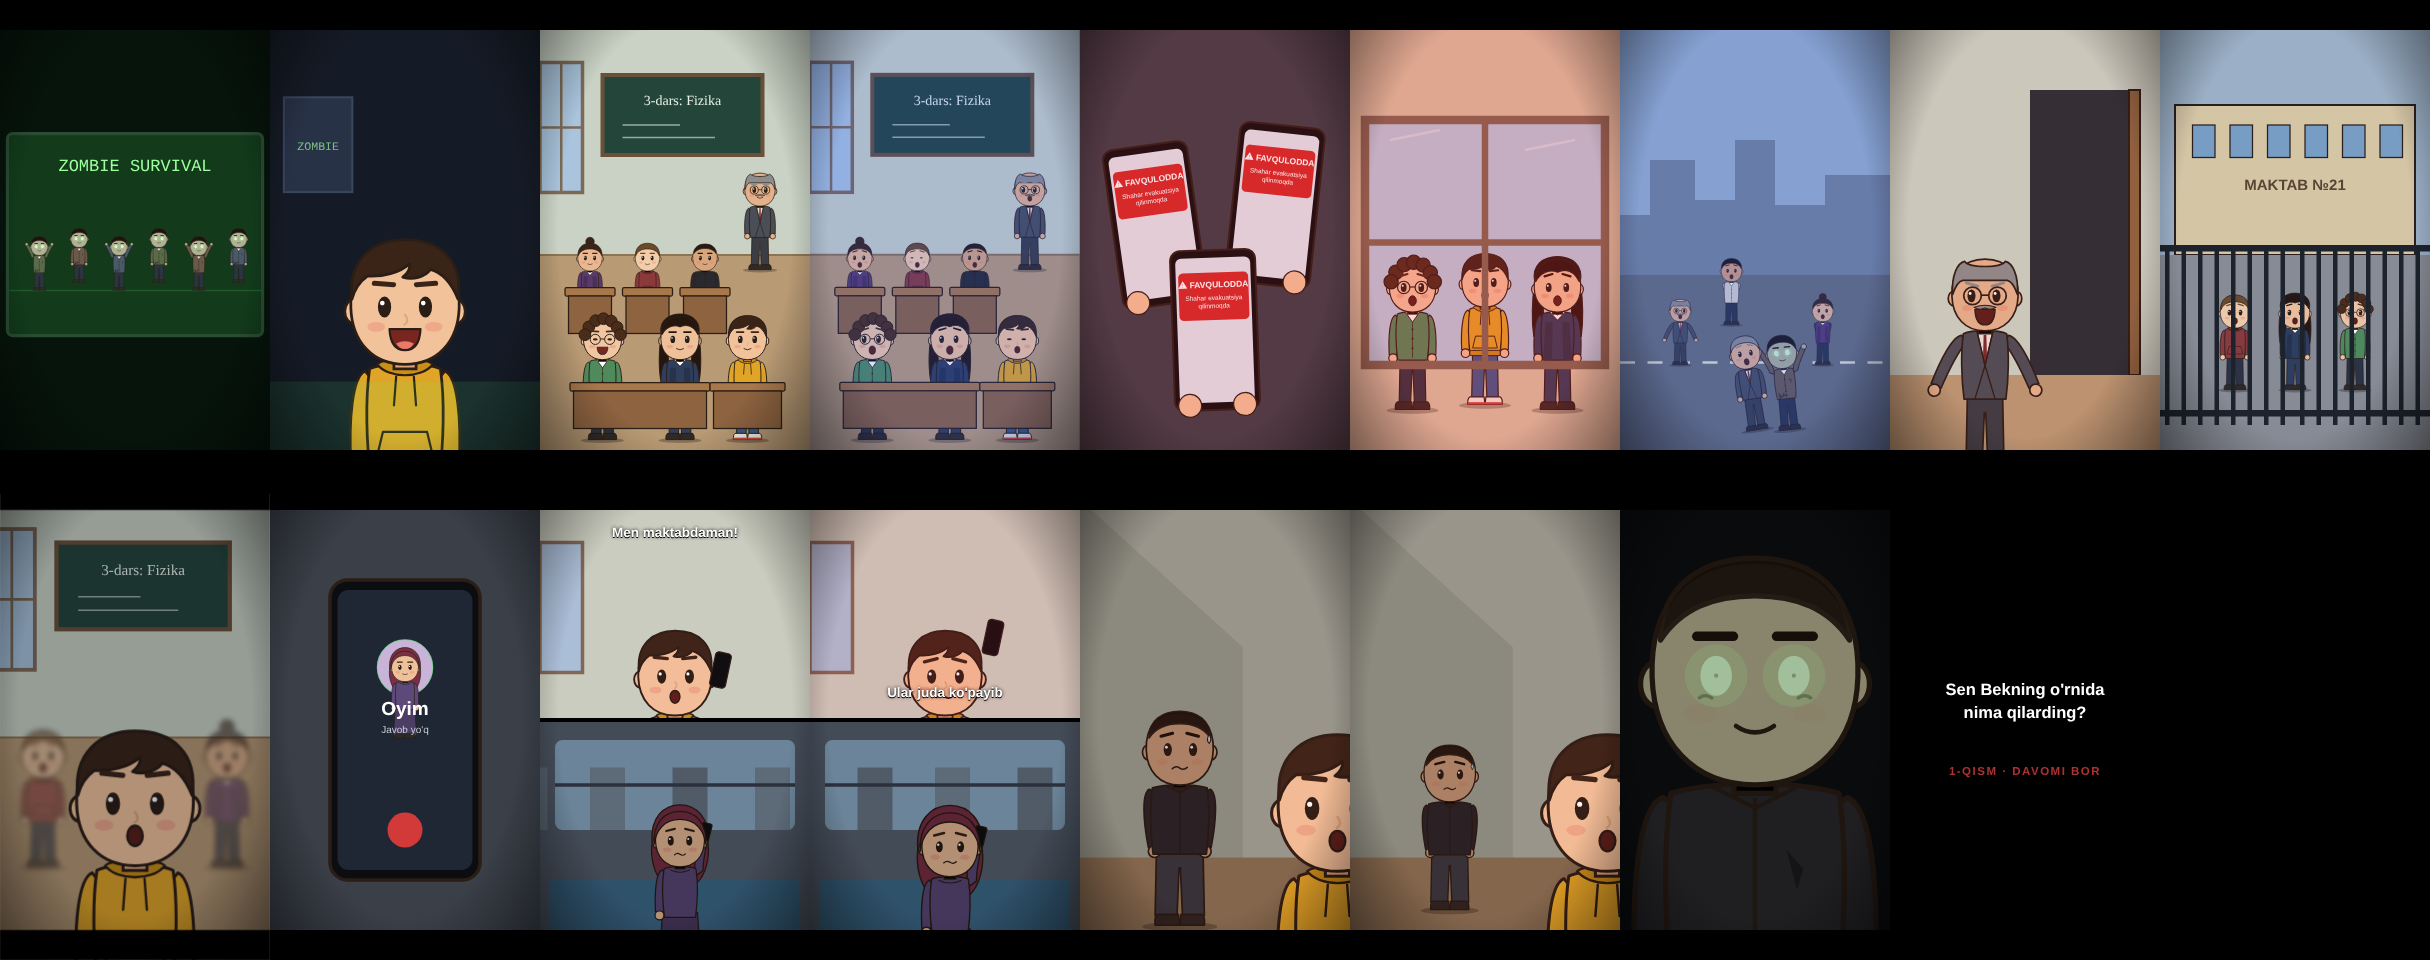
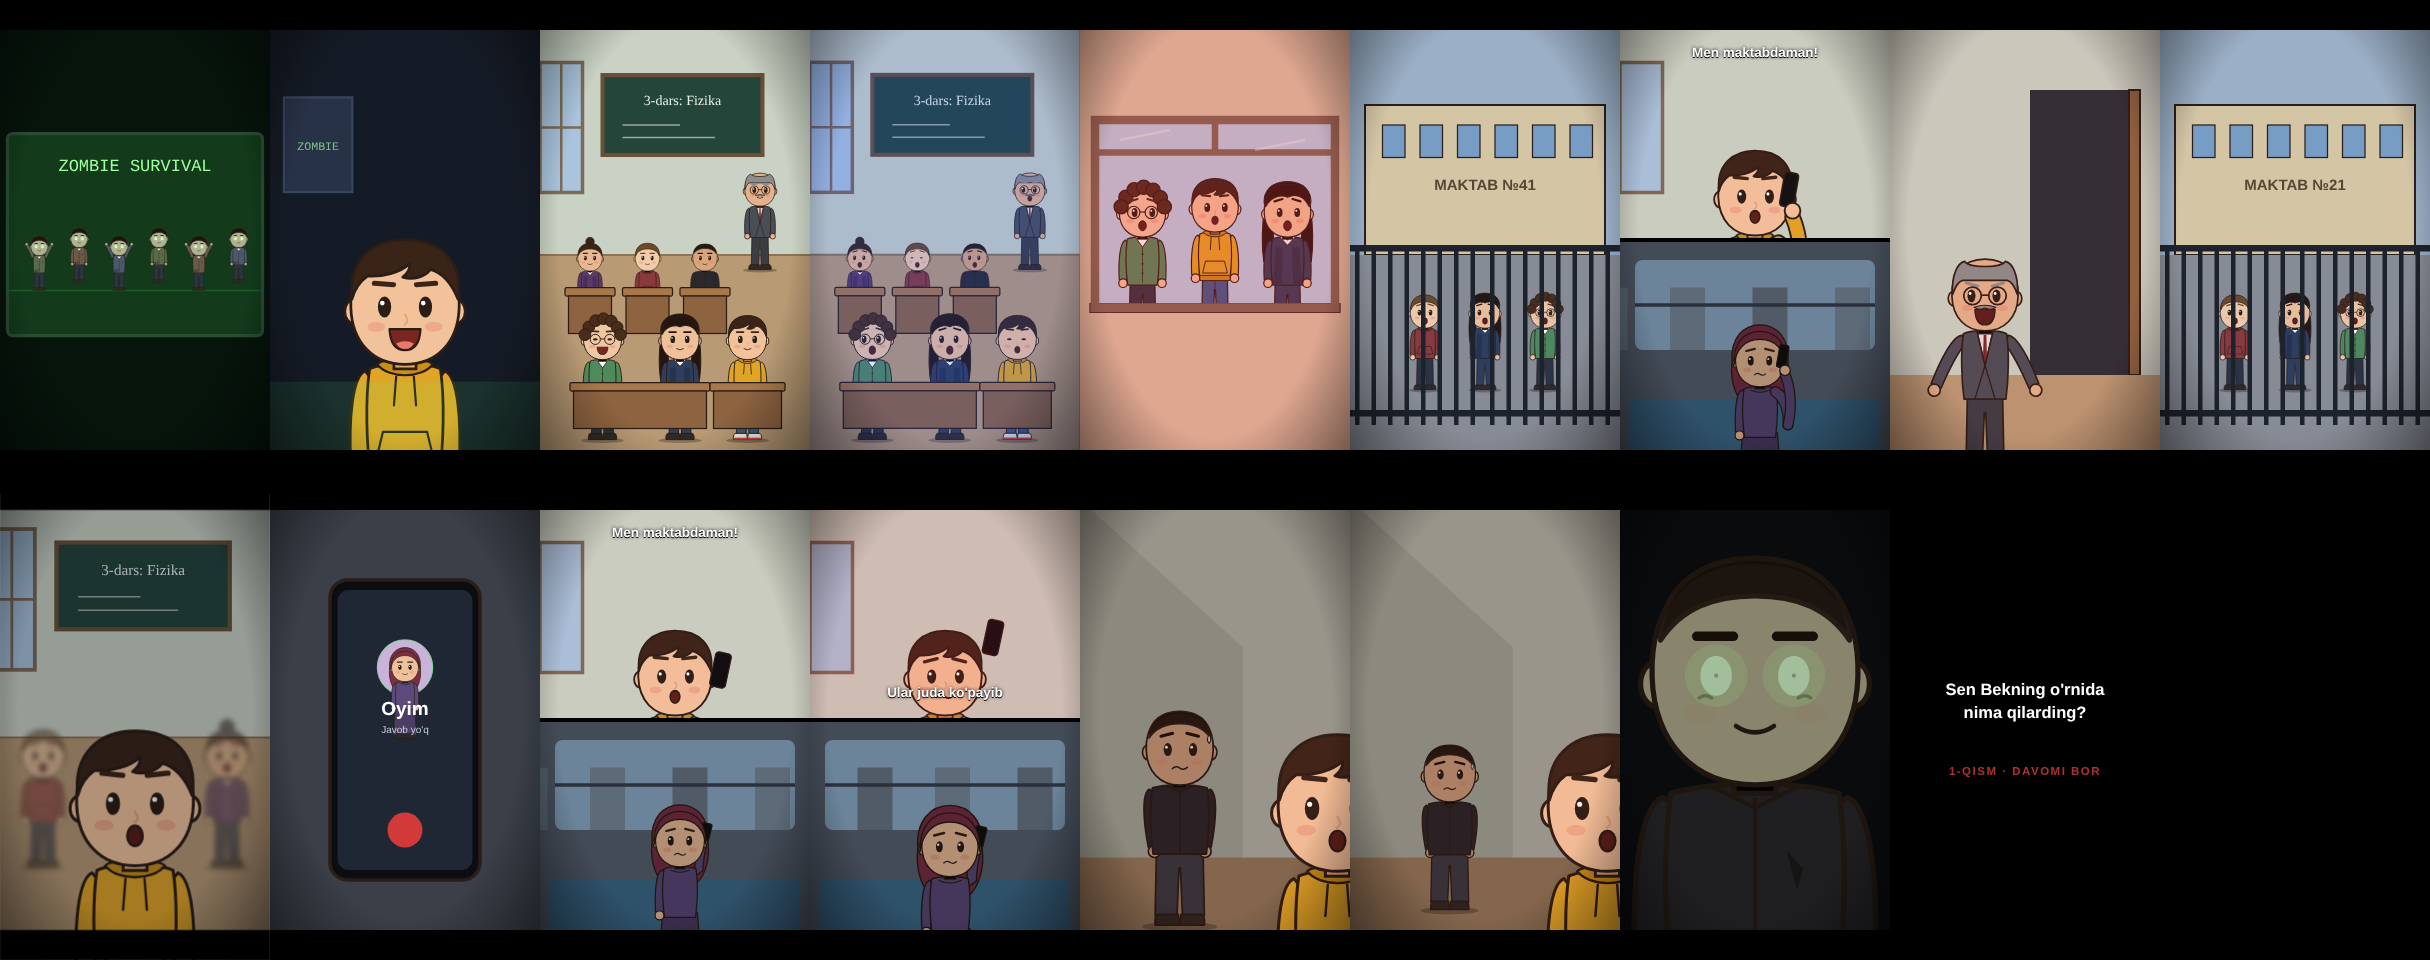
Zombie part 1: school 41, phone held to the ear, kids behind the window sill
Claude-Session: https://claude.ai/code/session_01TTDtXFX2VgNijaV9KjVb5K

Changed region(s): [[0.4321, 0.0312, 0.8025, 0.4688]]

diff --git a/video/src/zombi/ZQ1.tsx b/video/src/zombi/ZQ1.tsx
@@ -1,7 +1,7 @@
 import React from 'react';
 import {AbsoluteFill, useCurrentFrame} from 'remotion';
 import {BekAt, blinkAt, FPS, H, lerp, W} from '../tasavvur/common';
-import {CAST, PersonAt} from './Person';
+import {CAST, PersonAt, PhoneArm} from './Person';
 import words from './zq1_words.json';
 
 // Zombie series part 1 "Orzu ushaldi" (v2: every character drawn in Bek's style, lighter grade, dialogue-only subtitles).
@@ -142,11 +142,13 @@ const SWindow: S = ({t}) => {
         <rect width={W} height={H} fill="#d8c8a8" />
         <rect x={60} y={480} width={960} height={980} fill="#a9c4dc" />
         <rect x={60} y={480} width={960} height={980} fill="#e9f3fb" opacity={0.25} />
-        <PersonAt x={250} y={1640} s={0.95} {...CAST.doniyor} mood="scared" blink={blinkAt(t, 3)} />
-        <BekAt x={540} y={1620} s={0.95} mood="surprised" blink={blinkAt(t, 1)} />
-        <PersonAt x={830} y={1640} s={0.95} {...CAST.malika} mood="scared" blink={blinkAt(t, 4)} />
-        <path d="M60 970 H1020 M540 480 V1460" stroke="#7d6a55" strokeWidth={26} />
-        <rect x={60} y={480} width={960} height={980} fill="none" stroke="#7d6a55" strokeWidth={34} />
+        <PersonAt x={250} y={1340} s={0.95} {...CAST.doniyor} mood="scared" blink={blinkAt(t, 3)} lookX={0.8} />
+        <BekAt x={540} y={1320} s={0.95} mood="surprised" blink={blinkAt(t, 1)} lookX={0.9} />
+        <PersonAt x={830} y={1340} s={0.95} {...CAST.malika} mood="scared" blink={blinkAt(t, 4)} lookX={0.8} />
+        <rect x={0} y={1230} width={1080} height={700} fill="#d8c8a8" />
+        <rect x={40} y={1215} width={1000} height={34} fill="#b8a888" stroke="#2b1e16" strokeWidth={5} />
+        <path d="M60 610 H1020 M540 480 V610" stroke="#7d6a55" strokeWidth={26} />
+        <rect x={60} y={480} width={960} height={750} fill="none" stroke="#7d6a55" strokeWidth={34} />
         <path d="M160 560 L360 520 M700 600 L900 560" stroke="#fff" strokeWidth={10} opacity={0.35} />
         <Siren t={t} />
       </g>
@@ -193,7 +195,7 @@ const SGate: S = ({t}) => {
       <rect width={W} height={H} fill="#9fb3c6" />
       <rect x={60} y={420} width={960} height={600} fill="#d9c9a3" stroke="#2b1e16" strokeWidth={8} />
       {[0, 1, 2, 3, 4, 5].map((i) => <rect key={i} x={130 + i * 150} y={500} width={90} height={130} fill="#7aa0c4" stroke="#2b1e16" strokeWidth={5} />)}
-      <text x={540} y={760} fontSize={60} fill="#5a4630" textAnchor="middle" fontFamily="Liberation Sans" fontWeight={700}>MAKTAB №21</text>
+      <text x={540} y={760} fontSize={60} fill="#5a4630" textAnchor="middle" fontFamily="Liberation Sans" fontWeight={700}>MAKTAB №41</text>
       <rect y={1020} width={W} height={900} fill="#8a8d92" />
       {[[300, CAST.jasur], [540, CAST.malika], [780, CAST.doniyor]].map(([x, cc], i) => <PersonAt key={i} x={x as number} y={1560} s={0.6} {...(cc as object)} mood="scared" blink={blinkAt(t, i)} />)}
       {[-1, 1].map((d) => (
@@ -255,7 +257,7 @@ const SSplit: S = ({t}) => {
         <rect width={W} height={960} fill="#c9d2c4" />
         <rect x={0} y={250} width={170} height={520} fill="#a9c4dc" stroke="#7d6a55" strokeWidth={14} />
         <BekAt x={540} y={1560} s={1.5} mood={t > 53 ? 'worried' : 'surprised'} blink={blinkAt(t)} lookX={0.3} />
-        <rect x={690} y={690} width={64} height={140} rx={14} fill="#0b0d10" stroke="#2b1e16" strokeWidth={5} transform="rotate(12 722 760)" />
+        <g transform="translate(540 1560) scale(1.5) translate(-200 -730)"><PhoneArm color="#e0a526" skin="#f2c39b" /></g>
         <rect width={W} height={960} fill="#000" opacity={sp === 'B' ? 0 : 0.25} />
         <rect width={W} height={960} fill="#ff2030" opacity={0.12 * red(t)} />
       </g>

diff --git a/video/src/zombi/Person.tsx b/video/src/zombi/Person.tsx
@@ -105,11 +105,10 @@ const Body: React.FC<{top: Top; topColor: string; pants: string; skin: string; s
         <path d={`M${128 - w} 330 C${104 - w} 340 ${98 - w} 420 ${102 - w} 498 L${134 - w} 498 C${134 - w} 440 138 380 146 352 Z`} fill={topColor} stroke={INK} strokeWidth={SW} strokeLinejoin="round" />
         <circle cx={118 - w} cy={512} r={18} fill={skin} stroke={INK} strokeWidth={SW} />
       </g>
-      <g transform={`rotate(${armR} ${272 + w} 340)`}>
+      {!phone && <g transform={`rotate(${armR} ${272 + w} 340)`}>
         <path d={`M${272 + w} 330 C${296 + w} 340 ${302 + w} 420 ${298 + w} 498 L${266 + w} 498 C${266 + w} 440 262 380 254 352 Z`} fill={topColor} stroke={INK} strokeWidth={SW} strokeLinejoin="round" />
         <circle cx={282 + w} cy={512} r={18} fill={skin} stroke={INK} strokeWidth={SW} />
-        {phone && <rect x={262 + w} y={500} width={40} height={74} rx={8} fill="#111" stroke={INK} strokeWidth={4} transform={`rotate(180 ${282 + w} 520)`} />}
-      </g>
+      </g>}
       <path d={`M${136 - w} 326 C160 314 240 314 ${264 + w} 326 C${272 + w} 380 ${270 + w} 460 ${262 + w} 520 L${138 - w} 520 C${130 - w} 460 ${128 - w} 380 ${136 - w} 326 Z`} fill={topColor} stroke={INK} strokeWidth={SW} strokeLinejoin="round" />
       {top === 'hoodie' && <g><path d="M150 318 C170 344 230 344 250 318 C240 306 160 306 150 318 Z" fill={dark} stroke={INK} strokeWidth={4} /><path d="M160 440 L240 440 L252 490 L148 490 Z" fill="none" stroke={INK} strokeWidth={4} /></g>}
       {top === 'shirt' && <g><path d="M170 318 L200 360 L230 318" fill="#fff" stroke={INK} strokeWidth={4} /><path d="M200 360 V510" stroke={INK} strokeWidth={3} />{[390, 430, 470].map((y) => <circle key={y} cx={200} cy={y} r={4} fill={INK} />)}</g>}
@@ -121,6 +120,18 @@ const Body: React.FC<{top: Top; topColor: string; pants: string; skin: string; s
     </g>
   );
 };
+
+// bent right arm holding a phone to the right ear (same 400x800 space); draw it after the head
+export const PhoneArm: React.FC<{color: string; skin: string}> = ({color, skin}) => (
+  <g>
+    <path d="M262 338 C300 360 318 420 312 470" fill="none" stroke={INK} strokeWidth={46} strokeLinecap="round" />
+    <path d="M262 338 C300 360 318 420 312 470" fill="none" stroke={color} strokeWidth={36} strokeLinecap="round" />
+    <path d="M312 470 C330 400 322 320 300 268" fill="none" stroke={INK} strokeWidth={44} strokeLinecap="round" />
+    <path d="M312 470 C330 400 322 320 300 268" fill="none" stroke={color} strokeWidth={34} strokeLinecap="round" />
+    <rect x={272} y={150} width={38} height={92} rx={9} fill="#111" stroke={INK} strokeWidth={4} transform="rotate(10 291 196)" />
+    <circle cx={300} cy={252} r={21} fill={skin} stroke={INK} strokeWidth={5} />
+  </g>
+);
 
 export const PersonG: React.FC<PersonProps & {shadow?: boolean}> = (p) => {
   const z = p.zombie ?? 0;
@@ -141,6 +152,7 @@ export const PersonG: React.FC<PersonProps & {shadow?: boolean}> = (p) => {
       <Face mood={p.mood ?? 'neutral'} blink={p.blink ?? 0} lookX={p.lookX ?? 0} hairColor={hair === 'scarf' ? '#3a2418' : hc} skinSh={skinSh} zombie={z} eyeGlow={p.eyeGlow ?? 0} />
       {p.glasses && <g fill="none" stroke={INK} strokeWidth={5}><circle cx={163} cy={214} r={26} /><circle cx={237} cy={214} r={26} /><path d="M189 212 H211" /></g>}
       {p.mustache && <path d="M168 248 Q200 236 232 248 Q216 258 200 250 Q184 258 168 248 Z" fill={p.hairColor ?? '#555'} stroke={INK} strokeWidth={3} />}
+      {p.phone && <PhoneArm color={p.topColor ?? '#3d6fa8'} skin={skin} />}
       {p.sweat && <path d="M286 170 Q296 186 286 196 Q276 186 286 170 Z" fill="#bfe3ff" stroke={INK} strokeWidth={3} />}
     </g>
   );
